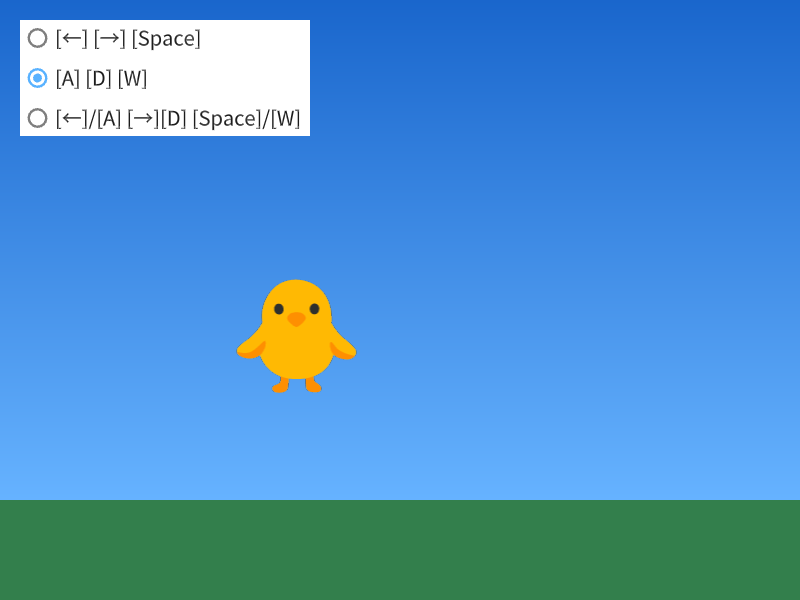
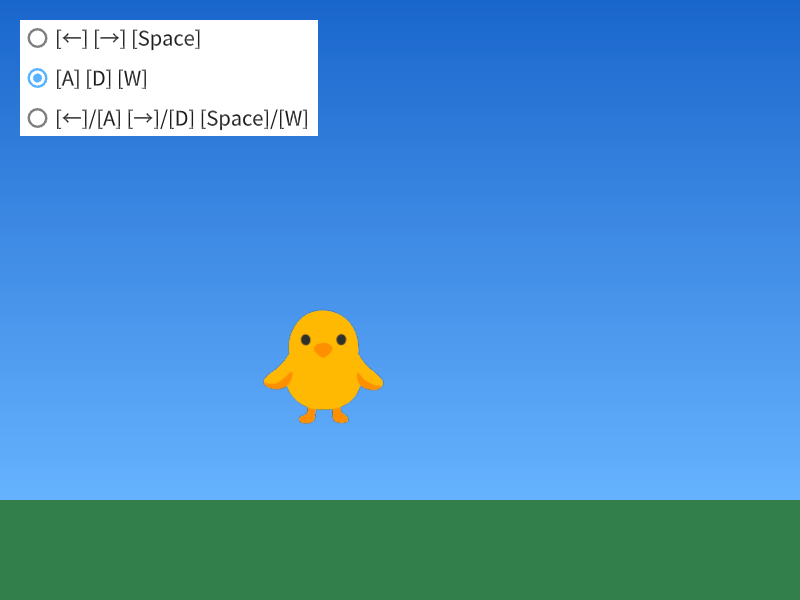
fix #7

Changed region(s): [[0.2812, 0.45, 0.5, 0.72], [0.1875, 0.03, 0.4062, 0.24]]

diff --git a/books/siv3d-documentation-en/tutorial-keyboard.md b/books/siv3d-documentation-en/tutorial-keyboard.md
@@ -213,7 +213,7 @@ void Main()
 	{
 		U"[←] [→] [Space]",
 		U"[A] [D] [W]",
-		U"[←]/[A] [→][D] [Space]/[W]"
+		U"[←]/[A] [→]/[D] [Space]/[W]"
 	};
 
 	const Texture texture{ U"🐥"_emoji };

diff --git a/books/siv3d-documentation/tutorial-keyboard.md b/books/siv3d-documentation/tutorial-keyboard.md
@@ -213,7 +213,7 @@ void Main()
 	{
 		U"[←] [→] [Space]",
 		U"[A] [D] [W]",
-		U"[←]/[A] [→][D] [Space]/[W]"
+		U"[←]/[A] [→]/[D] [Space]/[W]"
 	};
 
 	const Texture texture{ U"🐥"_emoji };
